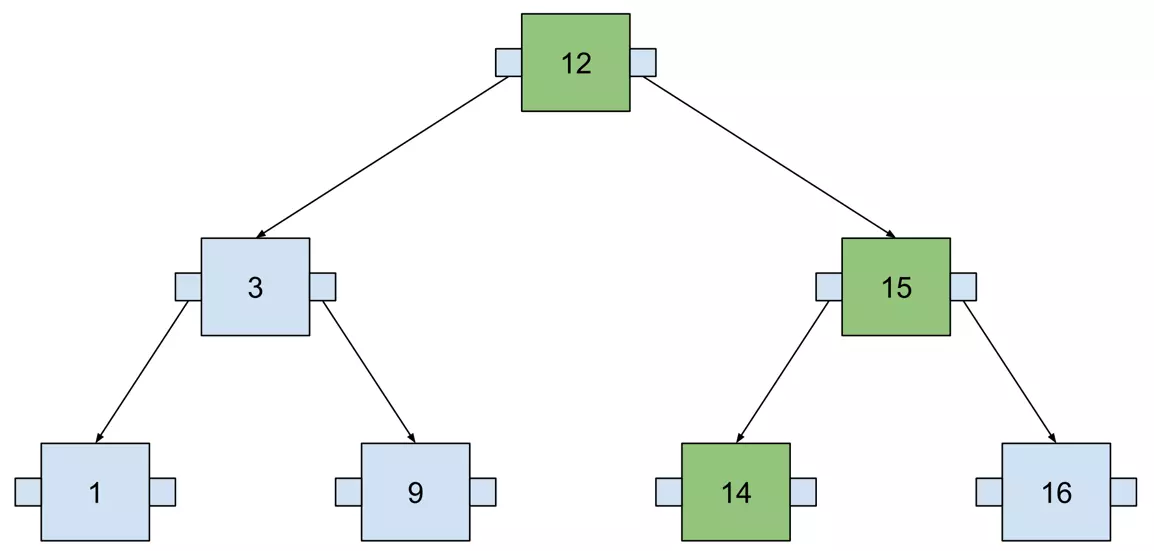
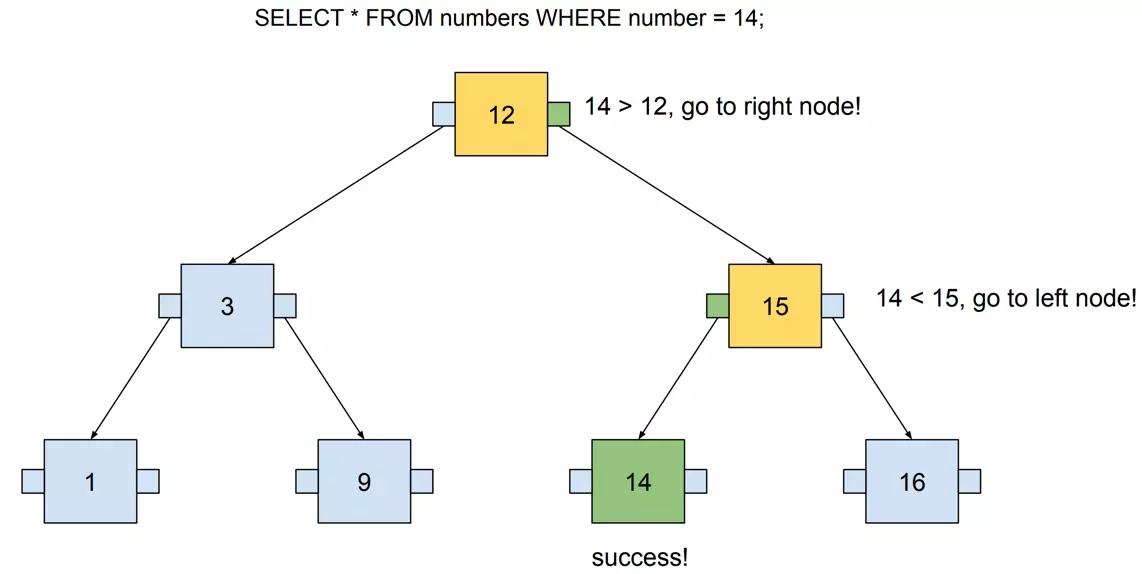
B-tree article - editorial fixes

diff --git a/_posts/2023-08-25-how-does-btree-make-your-queries-fast.md b/_posts/2023-08-25-how-does-btree-make-your-queries-fast.md
@@ -11,15 +11,15 @@ from https://upload.wikimedia.org/wikipedia/commons/6/68/Original_1976_Apple_1_C
 class="small-image"/>
 
 On the picture above, you see an Apple first commercial computer. This picture's size is 331kB, so it would barely fit
-on its
-storage, which had 456KB. I'm writing this post on a MacBook with 512GB of storage, which would manage to store over
+on its storage, which had 456KB. I'm writing this post on a MacBook with 512GB of storage, which would manage to store over
 1,5 millions copies of this picture.
 
 Apple I was revealed in 1976. 6 years after **B-tree** was invented (1970).
 
 While no one use Apple I on daily basis, B-tree is still employed by majority of modern databases. Although average disk
 size
-is millions of times grater than in 1970, **B-tree** suits any disk size.
+is millions of times grater than in 1970, **B-tree** suits any disk size. Because of their great flexibility, **B-trees**
+works consistently good on old Apple I as well as modern MacBook Pro.
 
 Why is this data structure still relevant in modern systems? Is it going to be replaced at some point? Let's find out!
 
@@ -28,9 +28,8 @@ Why is this data structure still relevant in modern systems? Is it going to be r
 > "the more you think about what the B in B-trees means, the better you understand B-trees." ~ Edward M. McCreight
 > according to [wikipedia.org](https://en.wikipedia.org/wiki/B-tree)
 
-B-tree inventor can't be wrong. B-tree is sometimes confused with Binary Search Tree (BST). The fact that nobody knows
-what
-"B" means doesn't help. Anyway, BST is a great start point in order to reinvent B-tree. Let's start with a simple
+B-tree is sometimes confused with **Binary Search Tree (BST)**. The truth is that even its inventors don't know what B is supposed
+to mean. Anyway, BST is a great start point in order to reinvent B-tree. Let's start with a simple
 example of BST:
 
 <img src="/img/articles/2023-08-25-how-does-btree-make-your-queries-fast/bst-basic.webp"
@@ -40,11 +39,11 @@ class="small-image"/>
 The greater number goes to the right, the lower to the left. It may become more clear, if we add more numbers:
 
 <img src="/img/articles/2023-08-25-how-does-btree-make-your-queries-fast/bst-bigger.webp"
-alt="Binary Search Tree with 7 nodes"
-class="small-image"/>
+alt="Binary Search Tree with 7 nodes"/>
 
-This tree already does its job. It contains 7 numbers, but we need to visit at most 3 nodes, to find any number.
-The following example visualize searching for 14. We need "3 hops" for such action.
+This tree contains 7 numbers, but we need to visit at most 3 nodes, to find any number.
+The following example visualize searching for 14. We need "3 hops" for such action. I used SQL to define the query, let's
+trat this tree as our actual database index.
 
 <img src="/img/articles/2023-08-25-how-does-btree-make-your-queries-fast/bst-bigger-searching.webp"
 alt="Searching for single node within Binary Search Tree with 7 nodes"
@@ -52,26 +51,22 @@ class="small-image"/>
 
 ## Hardware
 
-In theory, everything looks fine and fast. But! In the end, this data structure needs to work on actual hardware. There
-are
-3 places where we may store the data:
+In theory, using Binary Search Tree for running our queries looks fine. However, in practice, this data structure needs to
+work on actual hardware. An index needs to be stored somewhere in the computer. In general, there are 3 places where we may store the data:
 
 - CPU caches
 - RAM (memory)
 - Disk (storage)
 
-The cache is clearly not suitable. It is managed by CPU and relatively small, usually a fwa megabytes.
+The cache is managed fully by CPUs. Moreover, it is relatively small, usually has a few megabytes.
 
-On the other hand, the memory is vastly used by databases. It assures fast random access and its size may be pretty big.
-AWS RDS cloud service [provides instances](https://aws.amazon.com/rds/instance-types/) with a few terabytes of memory
-available.
+The memory/RAM is vastly used by databases. It assures fast random access and its size may be pretty big.
+AWS RDS cloud service [provides instances](https://aws.amazon.com/rds/instance-types/) with a few terabytes of memory available.
 Cons? It is not persistent - you lose the data when power is off. Moreover, the cost may be relatively high.
 
-The cons of a memory are the pros of a disk storage. It's cheap and data will remain there even if we lose the power
-supply.
-However, no free lunches! The catch is that we need to be careful about random and sequential access. I'll try to
-explain
-them simply.
+The cons of a memory are the pros of a disk storage. It's cheap and data will remain there even if we lose the power.
+However, there are no free lunches! The catch is that we need to be careful about random and sequential access.
+Reading from the disk is fast, but only under certain conditions! I'll try to explain them simply.
 
 ### Random and sequential access
 
@@ -79,15 +74,14 @@ them simply.
 alt="Random and sequential access visualized on a small chunk of a memory"
 class="small-image"/>
 
-Memory may be visualized as a line of containers for values, every container is numbered. If your task is find three
-values
-from container 3, 4 and 5 it is fast. You need to locate container no 3 and take values from next 3 containers. This may
-be called sequential access.
+Memory may be visualized as a line of containers for values, every container is numbered. There are two task to perform:
+1. Read the values from container 3, 4 and 5.
+2. Read the values from container 1, 4 and 6.
 
-If the task is to get values from containers 1, 4 and 6, it gets complex. Every container needs to be located
-separately.
-This is random access. If HDD is used, the head need to be moved 3 times. In sequential access, head is moved only once
-and next values are read by spinning the disk.
+Hard Disk Drive consists of the head and the disk. When performing task no. 1, you only need to move the head to container 3 and spin the disk in order to read 3 consecutive values.
+This is called sequential access, reading a bunch of values located next to each other.
+Task no. 2 is more challenging for an HDD. The head needs to be moved three times to different locations. This is random access!
+When reading megabytes of data, the difference between these two types of access is enormous.
 
 <img src="/img/articles/2023-08-25-how-does-btree-make-your-queries-fast/hdd-disk.webp"
 alt="Hard Disk Drive with cover removed, Public Domain image
